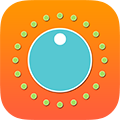
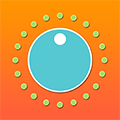
Added Hero Changing colors at increased speeds

diff --git a/CircleSecondIteration/CircleSecondIteration/Scenes/STSEndlessGameScene.m b/CircleSecondIteration/CircleSecondIteration/Scenes/STSEndlessGameScene.m
@@ -29,7 +29,6 @@
 @property (nonatomic) NSInteger level;
 
 @property (nonatomic) UILongPressGestureRecognizer *longPress;
-
 @end
 
 @implementation STSEndlessGameScene
@@ -66,7 +65,7 @@
     self.physicsBody = [SKPhysicsBody bodyWithEdgeLoopFromRect:[self frame]];
     self.physicsWorld.contactDelegate = self;
 
-    self.level = 0;
+    self.level = 1;
 
     [self addHero];
     [self createNInitialShield:20];
@@ -122,6 +121,7 @@ static float PROJECTILE_VELOCITY = 200/1;
                                        self.frame.size.height / 2);
     STSHero *newHero = [[STSHero alloc] initAtPosition:sceneCenter];
     self.hero = newHero;
+    [self createHeroLevelsColors];
 
     SKSpriteNode *shadow = [self.hero createShadow];
     shadow.position = CGPointMake(CGRectGetMidX(self.frame) - 0.8, CGRectGetMidY(self.frame) + 1.0);
@@ -148,6 +148,19 @@ static float PROJECTILE_VELOCITY = 200/1;
                                                            bodyB:self.physicsBody
                                                           anchor:self.hero.position];
     [self.physicsWorld addJoint:joint];
+}
+
+// Change this as more hero level colors get added
+- (void)createHeroLevelsColors {
+    for (int i = 2; i <= 3; i++) {
+        NSString *textureName = [NSString stringWithFormat:@"Hero_%d.png", i];
+        SKTexture *texture = [SKTexture textureWithImageNamed:textureName];
+        SKSpriteNode *nextLevelHero = [SKSpriteNode spriteNodeWithTexture:texture];
+        nextLevelHero.position = CGPointMake(0.0, 0.0);
+        nextLevelHero.alpha = 0.0;
+        nextLevelHero.name = [NSString stringWithFormat:@"%d", i];
+        [self.hero addChild:nextLevelHero];
+    }
 }
 
 
@@ -372,13 +385,24 @@ static inline CGPoint findCoordinatesAlongACircle(CGPoint center, uint radius, u
 
     CGFloat newVillainSpeed, newShieldSpeed;
     // Set here for smooth adjustments
-    if (withSpeed == 0) {
-        newVillainSpeed = 1.6;
+    if (withSpeed == 1) {
+        newVillainSpeed = 1.3;
         newShieldSpeed = 1.0;
     } else {
-        newVillainSpeed = 1.6 - withSpeed * 0.1;
-        newShieldSpeed = 1.0 + withSpeed * 0.1;
+        newVillainSpeed = 1.3 - withSpeed * 0.1;
+        newShieldSpeed = 1.0 - withSpeed * 0.1;
     }
+    self.level++;
+
+    SKSpriteNode *newHero = (SKSpriteNode *)[self.hero childNodeWithName:
+                                             [NSString stringWithFormat:@"%d", self.level]];
+
+    newHero.zRotation = newHero.zRotation;
+    SKAction *fadeIn = [SKAction fadeAlphaTo:1.0 duration:0.5];
+    [newHero runAction:fadeIn];
+
+    //SKSpriteNode
+
     SKAction *makeVillains = [SKAction sequence:@[
                                                   [SKAction performSelector:@selector(addVillain)
                                                                    onTarget:self],
@@ -389,8 +413,6 @@ static inline CGPoint findCoordinatesAlongACircle(CGPoint center, uint radius, u
                                                       [SKAction waitForDuration:newShieldSpeed withRange:0.2]]];
     [self runAction:[SKAction repeatActionForever:makeVillains] withKey:@"makeVillains"];
     [self runAction:[SKAction repeatActionForever:makeExtraShields] withKey:@"makeShields"];
-    
-    self.level++;
 }
 
 #pragma mark - Game Over Animation
@@ -473,7 +495,6 @@ static inline CGPoint findCoordinatesAlongACircle(CGPoint center, uint radius, u
             [node runAction:fadeOut];
         }
     }
-
 
     [deadHero runAction:fadeIn];
     [deadHero runAction:bounceSequence];

diff --git a/CircleSecondIteration/CircleSecondIteration/Scenes/Tutorial/STSHeroRotationScene.m b/CircleSecondIteration/CircleSecondIteration/Scenes/Tutorial/STSHeroRotationScene.m
@@ -60,19 +60,21 @@ static float PROJECTILE_VELOCITY = 200/1;
 - (void)addFirstPulse {
     //initialize first pulse
     CGPoint position1 = CGPointMake(self.size.width / 2 + 75, 75);
-    STSShield *newShield1 = [[STSShield alloc] initAtPosition:position1];
-    newShield1.name = @"firstPulse";
-    [self addChild:newShield1];
-    [newShield1 runAction:[self createPulsingAction]];
+    SKSpriteNode *pulse = [SKSpriteNode spriteNodeWithImageNamed:@"pulse.png"];
+    pulse.name = @"firstPulse";
+    pulse.position = position1;
+    [self addChild:pulse];
+    [pulse runAction:[self createPulsingAction]];
 }
 
 - (void)addSecondPulse {
     //initialize second pulse
     CGPoint position2 = CGPointMake(self.size.width / 2 - 75, 75);
-    STSShield *newShield2 = [[STSShield alloc] initAtPosition:position2];
-    newShield2.name = @"secondPulse";
-    [newShield2 runAction:[self createPulsingAction]];
-    [self addChild:newShield2];
+    SKSpriteNode *pulse = [SKSpriteNode spriteNodeWithImageNamed:@"pulse.png"];
+    pulse.name = @"secondPulse";
+    pulse.position = position2;
+    [self addChild:pulse];
+    [pulse runAction:[self createPulsingAction]];
 }
 
 - (void)addIntroductionText {

diff --git a/CircleSecondIteration/CircleSecondIteration/Scenes/Tutorial/STSObtainShieldScene.m b/CircleSecondIteration/CircleSecondIteration/Scenes/Tutorial/STSObtainShieldScene.m
@@ -151,17 +151,19 @@ static float PROJECTILE_VELOCITY = 200/1;
     
     //initialize first pulse
     CGPoint position1 = CGPointMake(self.size.width / 2 + 75, 75);
-    STSShield *newShield1 = [[STSShield alloc] initAtPosition:position1];
-    newShield1.name = @"firstPulse";
-    [newShield1 runAction:[self createPulsingAction]];
-    [self addChild:newShield1];
+    SKSpriteNode *pulse = [SKSpriteNode spriteNodeWithImageNamed:@"pulse.png"];
+    pulse.name = @"firstPulse";
+    pulse.position = position1;
+    [pulse runAction:[self createPulsingAction]];
+    [self addChild:pulse];
     
     //initialize second pulse
     CGPoint position2 = CGPointMake(self.size.width / 2 - 75, 75);
-    STSShield *newShield2 = [[STSShield alloc] initAtPosition:position2];
-    newShield2.name = @"secondPulse";
-    [newShield2 runAction:[self createPulsingAction]];
-    [self addChild:newShield2];
+    SKSpriteNode *pulse2 = [SKSpriteNode spriteNodeWithImageNamed:@"pulse.png"];
+    pulse2.name = @"secondPulse";
+    pulse2.position = position2;
+    [pulse2 runAction:[self createPulsingAction]];
+    [self addChild:pulse2];
 }
 
 #pragma mark - Helper Functions for creating Sprites

diff --git a/CircleSecondIteration/CircleSecondIteration/STSViewController.m b/CircleSecondIteration/CircleSecondIteration/STSViewController.m
@@ -27,8 +27,8 @@
 
     // Configure the view.
     SKView * skView = (SKView *)self.view;
-    // skView.showsFPS = YES;
-    // skView.showsNodeCount = YES;
+    skView.showsFPS = YES;
+    skView.showsNodeCount = YES;
     // skView.showsPhysics = YES;
 
 // Use NSUserDefaults to launch tutorial only once
